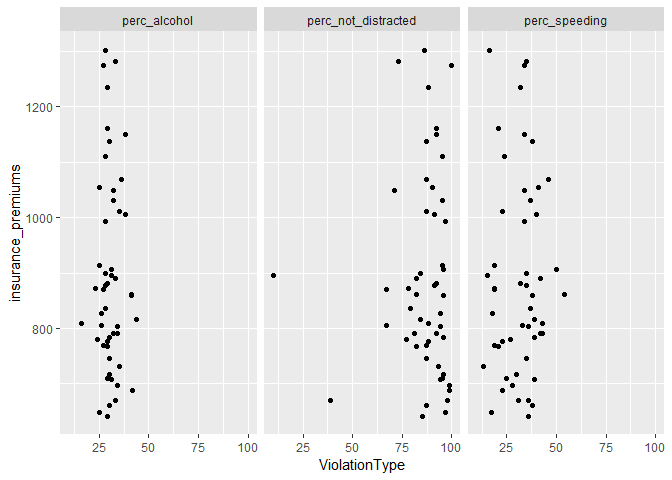
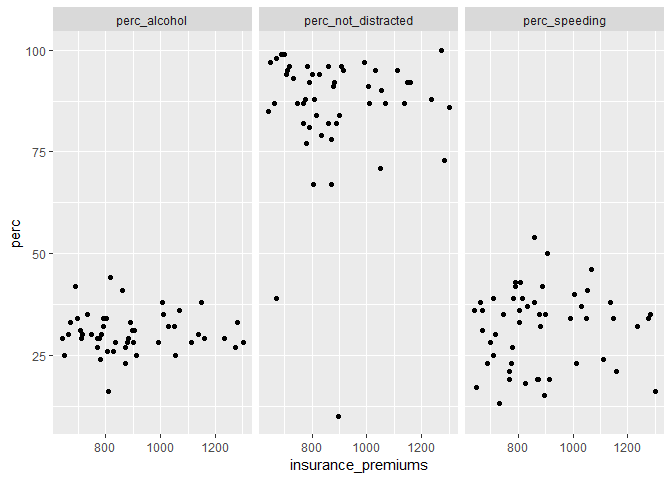
Assignment 3 Knit.

diff --git a/assignments/assignment03_ggplot/README.md b/assignments/assignment03_ggplot/README.md
@@ -51,23 +51,8 @@ bad_drivers %>%
 1.  Reshape the dataset gathering together perc\_speeding, perc\_alcohol, perc\_not\_distracted in one variable, paired with their pecentages. Name this variable "ViolationType" and the variable for the value pairs "perc".
 
 ``` r
-gather(bad_drivers, key = 'perc', value = 'ViolationType', perc_alcohol, perc_speeding, perc_not_distracted)
+percGathered <- gather(bad_drivers, key = 'ViolationType', value = 'perc', perc_alcohol, perc_speeding, perc_not_distracted)
 ```
-
-    ## # A tibble: 153 x 7
-    ##    state num_drivers perc_no_previous insurance_premi~ losses perc 
-    ##    <chr>       <dbl>            <int>            <dbl>  <dbl> <chr>
-    ##  1 Alab~        18.8               80             785.   145. perc~
-    ##  2 Alas~        18.1               94            1053.   134. perc~
-    ##  3 Ariz~        18.6               96             899.   110. perc~
-    ##  4 Arka~        22.4               95             827.   142. perc~
-    ##  5 Cali~        12                 89             878.   166. perc~
-    ##  6 Colo~        13.6               95             836.   140. perc~
-    ##  7 Conn~        10.8               82            1069.   167. perc~
-    ##  8 Dela~        16.2               99            1138.   151. perc~
-    ##  9 Dist~         5.9              100            1274.   136. perc~
-    ## 10 Flor~        17.9               94            1160.   144. perc~
-    ## # ... with 143 more rows, and 1 more variable: ViolationType <int>
 
 1.  Use facetting (DO NOT use 3 distinct calls to `ggplot()`) to plot 3 dot plots for the correlation between:
 
@@ -76,10 +61,10 @@ gather(bad_drivers, key = 'perc', value = 'ViolationType', perc_alcohol, perc_sp
 -   insurance\_premiums and perc\_not\_distracted
 
 ``` r
-gather(bad_drivers, key = 'perc', value = 'ViolationType', perc_alcohol, perc_speeding, perc_not_distracted) %>%
+percGathered %>%
  ggplot() +
-  geom_point(aes(x= ViolationType, y = insurance_premiums)) +
-    facet_wrap(~perc)
+  geom_point(aes(x= insurance_premiums, y = perc)) +
+    facet_wrap(~ViolationType)
 ```
 
 ![](README_files/figure-markdown_github/unnamed-chunk-6-1.png)
